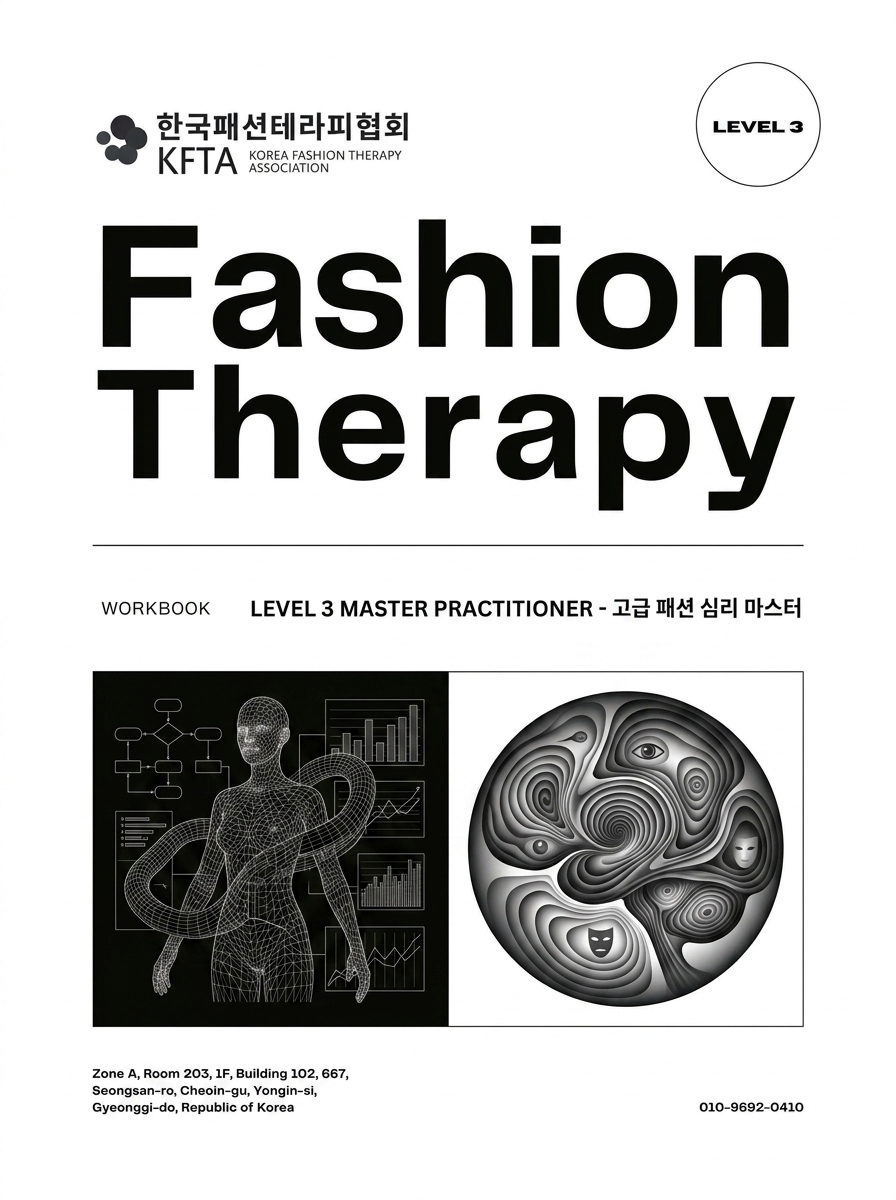
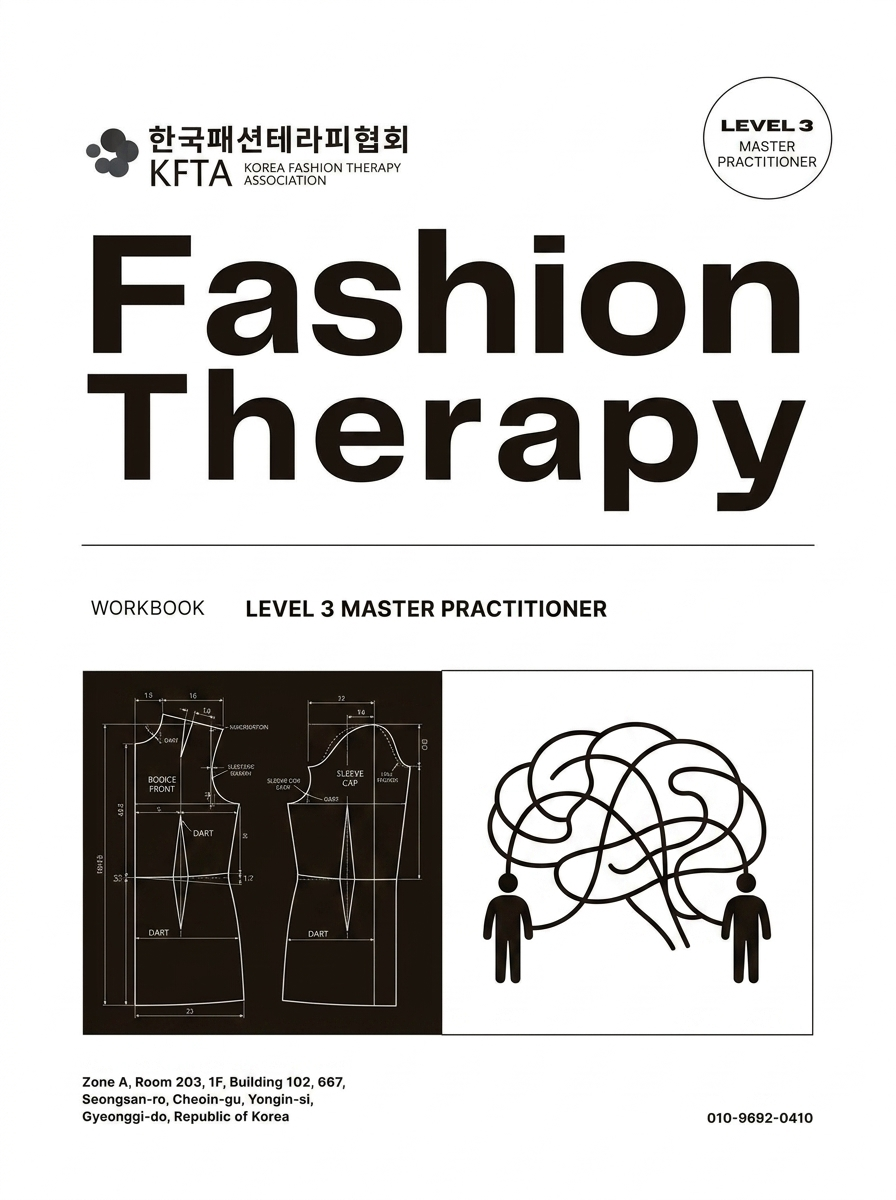
feat: add 'participants only' badge to workbooks and update cover designs to include fashion elements

diff --git a/shop.html b/shop.html
@@ -105,31 +105,31 @@
             <div class="flex flex-col text-center items-center group">
                 <img src="assets/shop_book_level1_new.jpg" alt="패션테라피 교재" class="w-full aspect-[3/4] object-contain shadow-lg group-hover:shadow-2xl group-hover:-translate-y-2 transition-all duration-300 mb-6 mx-auto rounded-md">
                 <h4 class="font-bold text-xl text-kftaGreen mb-2">패션테라피 교재</h4>
-                <p class="text-sm text-gray-500 mb-6 flex-grow">자격증 과정 공식 워크북</p>
+                <p class="text-sm text-gray-500 mb-6 flex-grow">자격증 과정 공식 워크북<br><span class="text-red-500 font-bold text-xs mt-2 inline-block bg-red-50 px-2 py-1 rounded">※ 자격증 수강생 전용</span></p>
                 <a href="checkout.html?item=패션테라피 교재" class="inline-block w-4/5 mx-auto bg-kftaGreen hover:bg-green-900 text-white font-bold py-3 rounded-full transition-colors text-sm shadow-sm">구매하기</a>
             </div>
             <div class="flex flex-col text-center items-center group">
                 <img src="assets/shop_book_level2.jpg" alt="Level 2 교재" class="w-full aspect-[3/4] object-contain shadow-lg group-hover:shadow-2xl group-hover:-translate-y-2 transition-all duration-300 mb-6 mx-auto rounded-md">
                 <h4 class="font-bold text-xl text-kftaGreen mb-2">패션테라피 Level 2</h4>
-                <p class="text-sm text-gray-500 mb-6 flex-grow">자격증 과정 워크북</p>
+                <p class="text-sm text-gray-500 mb-6 flex-grow">자격증 과정 워크북<br><span class="text-red-500 font-bold text-xs mt-2 inline-block bg-red-50 px-2 py-1 rounded">※ 자격증 수강생 전용</span></p>
                 <a href="checkout.html?item=패션테라피 Level 2 교재" class="inline-block w-4/5 mx-auto bg-kftaGreen hover:bg-green-900 text-white font-bold py-3 rounded-full transition-colors text-sm shadow-sm">구입하기</a>
             </div>
             <div class="flex flex-col text-center items-center group">
                 <img src="assets/shop_book_level3.jpg" alt="Level 3 교재" class="w-full aspect-[3/4] object-contain shadow-lg group-hover:shadow-2xl group-hover:-translate-y-2 transition-all duration-300 mb-6 mx-auto rounded-md">
                 <h4 class="font-bold text-xl text-kftaGreen mb-2">패션테라피 Level 3</h4>
-                <p class="text-sm text-gray-500 mb-6 flex-grow">자격증 과정 워크북</p>
+                <p class="text-sm text-gray-500 mb-6 flex-grow">자격증 과정 워크북<br><span class="text-red-500 font-bold text-xs mt-2 inline-block bg-red-50 px-2 py-1 rounded">※ 자격증 수강생 전용</span></p>
                 <a href="checkout.html?item=패션테라피 Level 3 교재" class="inline-block w-4/5 mx-auto bg-kftaGreen hover:bg-green-900 text-white font-bold py-3 rounded-full transition-colors text-sm shadow-sm">구입하기</a>
             </div>
             <div class="flex flex-col text-center items-center group">
                 <img src="assets/shop_book_trainer.jpg" alt="Trainer 교재" class="w-full aspect-[3/4] object-contain shadow-lg group-hover:shadow-2xl group-hover:-translate-y-2 transition-all duration-300 mb-6 mx-auto rounded-md">
                 <h4 class="font-bold text-xl text-kftaGreen mb-2">패션테라피 Trainer</h4>
-                <p class="text-sm text-gray-500 mb-6 flex-grow">자격증 과정 워크북</p>
+                <p class="text-sm text-gray-500 mb-6 flex-grow">자격증 과정 워크북<br><span class="text-red-500 font-bold text-xs mt-2 inline-block bg-red-50 px-2 py-1 rounded">※ 자격증 수강생 전용</span></p>
                 <a href="checkout.html?item=패션테라피 Trainer 교재" class="inline-block w-4/5 mx-auto bg-kftaGreen hover:bg-green-900 text-white font-bold py-3 rounded-full transition-colors text-sm shadow-sm">구입하기</a>
             </div>
             <div class="flex flex-col text-center items-center group">
                 <img src="assets/shop_book_master.jpg" alt="Master Trainer 교재" class="w-full aspect-[3/4] object-contain shadow-lg group-hover:shadow-2xl group-hover:-translate-y-2 transition-all duration-300 mb-6 mx-auto rounded-md">
                 <h4 class="font-bold text-xl text-kftaGreen mb-2">패션테라피 Master</h4>
-                <p class="text-sm text-gray-500 mb-6 flex-grow">자격증 과정 워크북</p>
+                <p class="text-sm text-gray-500 mb-6 flex-grow">자격증 과정 워크북<br><span class="text-red-500 font-bold text-xs mt-2 inline-block bg-red-50 px-2 py-1 rounded">※ 자격증 수강생 전용</span></p>
                 <a href="checkout.html?item=패션테라피 Master 교재" class="inline-block w-4/5 mx-auto bg-kftaGreen hover:bg-green-900 text-white font-bold py-3 rounded-full transition-colors text-sm shadow-sm">구입하기</a>
             </div>
 </div>
@@ -215,6 +215,7 @@
     </footer>
 </body>
 </html>
+
 
 
 
